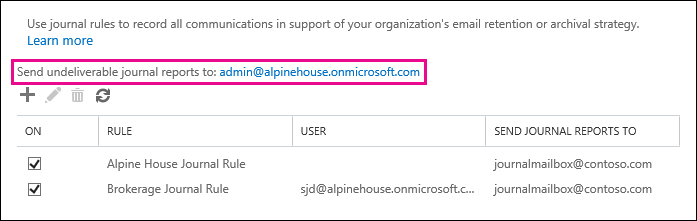
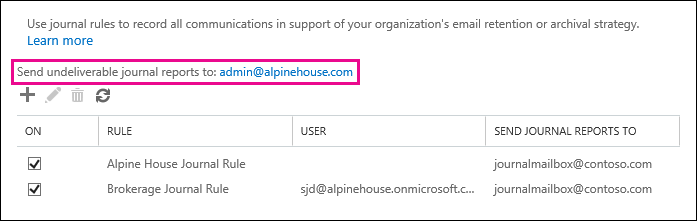
Clarified statements and art for alternate journaling mailbox per support request

Changed region(s): [[0.4519, 0.2443, 0.6327, 0.4072]]

diff --git a/Exchange/ExchangeOnline/security-and-compliance/journaling/configure-journaling.md b/Exchange/ExchangeOnline/security-and-compliance/journaling/configure-journaling.md
@@ -29,7 +29,7 @@ Exchange Online doesn't support delivering journal reports to an Exchange Online
 
 ## Specify an alternate journaling mailbox for undeliverable journal reports
 
-As previously explained, undeliverable journal reports are queued on Microsoft datacenter servers. Undeliverable journal reports can't be returned to the sender in a non-delivery report (also known as an NDR or bounce message) because the sender is the Exchange Online service. To handle the NDRs for undelivered journal reports, you have to you specify an alternate journaling mailbox that accepts the NDRs for all undeliverable journal reports.
+As previously explained, undeliverable journal reports are queued on Microsoft datacenter servers. Undeliverable journal reports can't be returned to the sender in a non-delivery report (also known as an NDR or bounce message) because the sender is the Exchange Online service. To handle the NDRs for undelivered journal reports, you have to you specify an alternate journaling mailbox that accepts the NDRs for all undeliverable journal reports. Like the journaling mailbox, the alternate journaling mailbox can't be an Exchange Online mailbox.
 
 ![Select an alternative journaling mailbox to receive NDRs for undeliverable journal reports](../../media/23408455-a7d2-454b-8375-45be81563c36.png)
 
